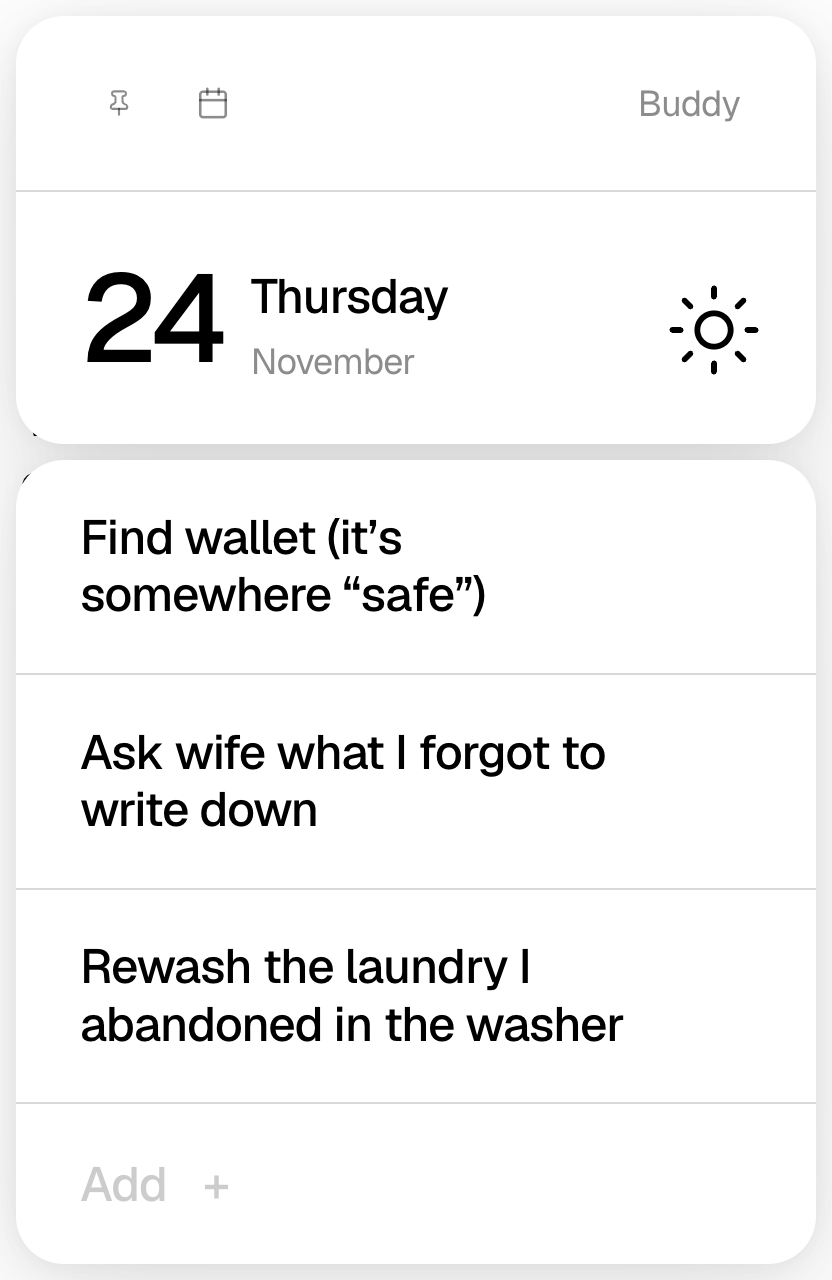
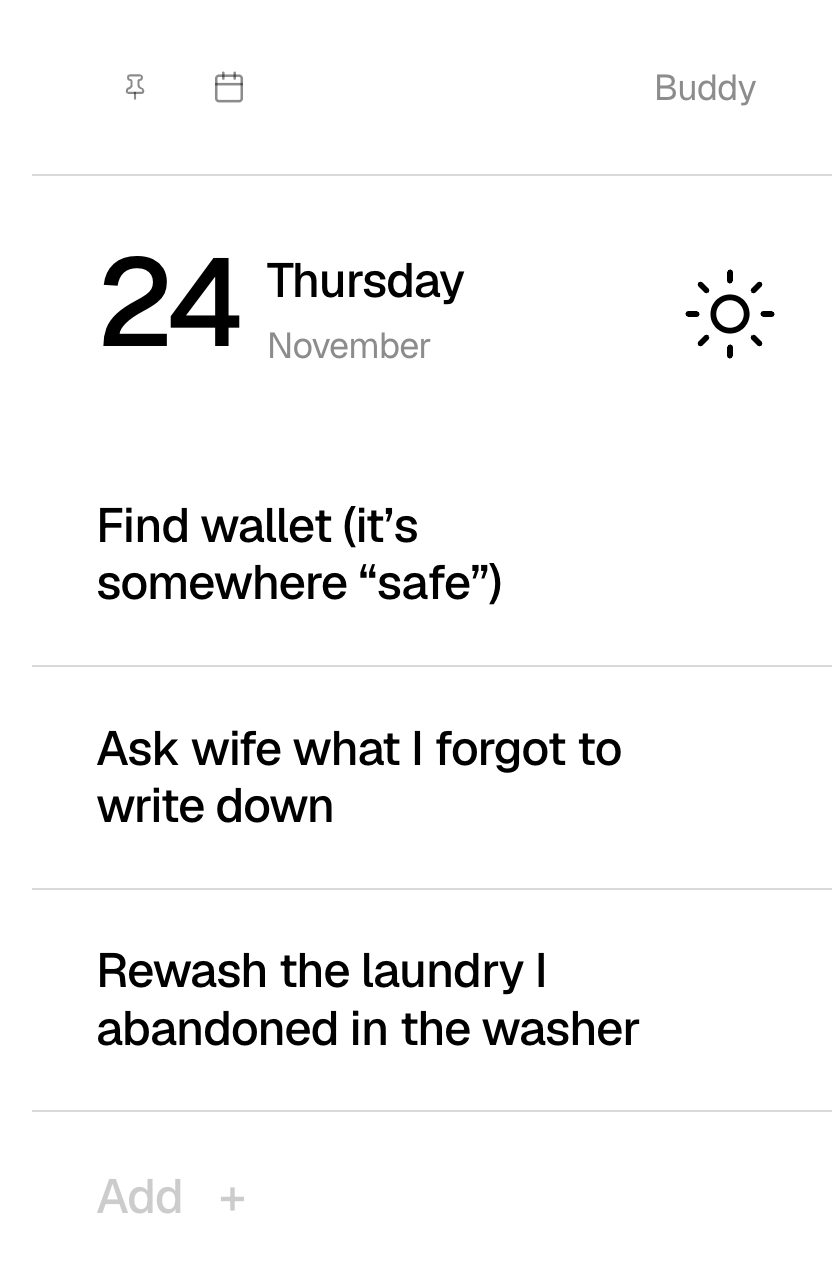
Mobile polish pass: fixed header bar, clean app still, spacing, form, confetti
1. Top bar: position:fixed + solid white (was sticky + gradient) — no more
   text bleeding through or showing in the status-bar zone; visualViewport
   pin keeps it in view when the iOS keyboard pans the page; spacer div
   holds the layout gap
2-3. step-add.png recaptured with shadows off and white bg — no grey haze
   or double-radius artifacts behind the stroke
4. First feature row drops its top padding — gap under the heading rule now
   matches the row rhythm (Figma 69:1081)
5. Signup form realigned (generic mobile button margin was pushing the
   submit button down); signup fires confetti, which bursts BEHIND the
   fixed icon (bar z-index 70 > confetti 60)

diff --git a/index.html b/index.html
@@ -265,9 +265,16 @@ p{text-wrap:pretty}
   body{overflow-x:clip}          /* clip (not hidden) — hidden breaks position:sticky */
   #mobileWrap{display:block}
   #mobile{max-width:520px;margin:0 auto;padding:0 24px;position:relative}   /* no bottom pad — the winking face crops at the page edge */
-  /* single icon, pinned at the top — does NOT repeat per section */
-  #mStick{position:sticky;top:0;z-index:10;padding:22px 0 14px;
-    background:linear-gradient(#fff 66%, rgba(255,255,255,0))}
+  /* single icon, pinned at the top — does NOT repeat per section.
+     FIXED (not sticky) + solid white: sticky panned out of view when the iOS
+     keyboard opened, and the old gradient let scrolled text bleed through and
+     show in the translucent status-bar zone. z-index above confetti (60) —
+     the celebration always bursts BEHIND the icon. #mStickSpace holds the
+     layout gap; a JS visualViewport pin keeps the bar in view over the keyboard. */
+  #mStick{position:fixed;top:0;left:50%;transform:translateX(-50%);width:100%;max-width:520px;
+    box-sizing:border-box;padding:22px 24px 14px;z-index:70;background:#fff}
+  #mStick::after{content:'';position:absolute;left:0;right:0;top:100%;height:18px;
+    background:linear-gradient(#fff,rgba(255,255,255,0))}
   #mStick svg{width:56px;height:56px;display:block}
   .msec{padding:40px 0}          /* 80px of whitespace between sections */
   /* hero: first section fills the first viewport exactly — 100svh minus the
@@ -302,9 +309,14 @@ p{text-wrap:pretty}
      Static on purpose: the app is not editable on mobile. */
   .mshot{width:100%;display:block;margin-top:24px;border:1px solid #e5e5e5;border-radius:24px}
 
-  /* feature list — one beat per hairline row */
+  /* feature list — one beat per hairline row. First row drops its top padding
+     so the gap under the heading rule matches the row rhythm (Figma 69:1081). */
   .mfeat{font-size:calc(var(--mbody)*1px);line-height:1.35;color:var(--dim);letter-spacing:-0.02em;margin:0;padding:20px 0}
   .mfeat+.mfeat{border-top:1px solid var(--line)}
+  .mfeat:first-child{padding-top:0}
+  /* the signup button sits IN the form row — the generic mobile button
+     margin-top was shoving it out of alignment with the email field */
+  .mbody .form .btn{margin-top:0}
 
   /* signup: the sticky icon takes over the celebration — winks and tilts */
   #mStickIcon{transition:transform .45s var(--ease-out)}
@@ -976,9 +988,17 @@ function buildMobile(){
   const stick=document.createElement('div'); stick.id='mStick';
   const topIcon=document.getElementById('mark').cloneNode(true); topIcon.removeAttribute('id'); topIcon.id='mStickIcon';
   stick.appendChild(topIcon); m.appendChild(stick);
-  // measure the sticky header so the hero's 100svh math is exact, and keep it exact on resize
-  const setStickH=()=>document.documentElement.style.setProperty('--stickH', stick.offsetHeight+'px');
+  // the bar is position:fixed — this spacer holds its place in the flow
+  const space=document.createElement('div'); space.id='mStickSpace'; m.appendChild(space);
+  // measure the fixed header so the hero's 100svh math (and the spacer) stay exact
+  const setStickH=()=>{ const h=stick.offsetHeight; space.style.height=h+'px';
+    document.documentElement.style.setProperty('--stickH', h+'px'); };
   requestAnimationFrame(setStickH); addEventListener('resize',setStickH);
+  // iOS keyboard pans the layout viewport; pin the bar to the VISUAL viewport
+  if(window.visualViewport){
+    const pin=()=>{ stick.style.top=visualViewport.offsetTop+'px'; };
+    visualViewport.addEventListener('resize',pin); visualViewport.addEventListener('scroll',pin);
+  }
 
   // touch tooltips: tap an underlined term → tooltip for 2s, then fade (no hover on mobile)
   m.addEventListener('click',e=>{
@@ -1072,6 +1092,7 @@ function applyMobileBoomski(ref, icon, animate){
 function mobileSignup(ref, icon){
   if(state.signedUp){ return; }
   state.signedUp=true; save();
+  fireConfetti();                       // celebration bursts behind the fixed icon (z-order)
   applyMobileBoomski(ref, icon, true);
 }
 
